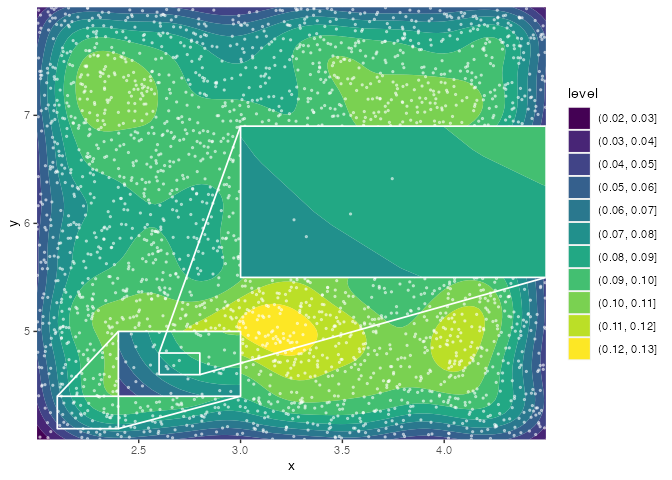
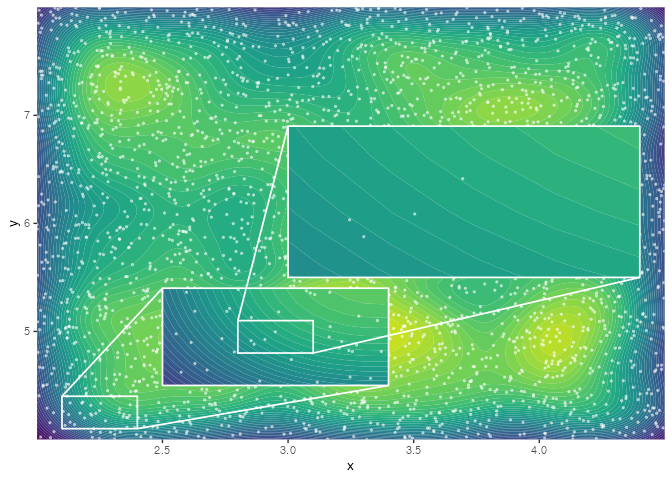
Make the readme oh so pretty :-)

diff --git a/README.md b/README.md
@@ -280,11 +280,12 @@ ggplot(
   data.frame(x=runif(3000, 2,4.5),y= runif(3000, 4, 8)), 
   aes(x=x,y=y)) +
   coord_cartesian(expand = FALSE) +
-  geom_density2d_filled() + 
+  geom_density2d_filled(bins = 50, linewidth = 0) +
   geom_point(color='white', alpha = .5, size = .5) + 
-  geom_magnify(from = c(2.1, 4.1, 2.4, 4.4), to = c(2.4, 4.4, 3.0, 5.0), 
+  theme(legend.position = "none") +
+  geom_magnify(from = c(2.1, 4.1, 2.4, 4.4), to = c(2.5, 4.5, 3.4, 5.4), 
                colour = "white", proj.linetype = 1, linewidth = 0.6) +
-  geom_magnify(from = c(2.6, 4.6, 2.8, 4.8), to = c(3,5.5,4.5,6.9), 
+  geom_magnify(from = c(2.8, 4.8, 3.1, 5.1), to = c(3,5.5,4.4,6.9), 
                expand = FALSE, colour ="white", proj.linetype = 1, 
                linewidth = 0.6)
 ```
